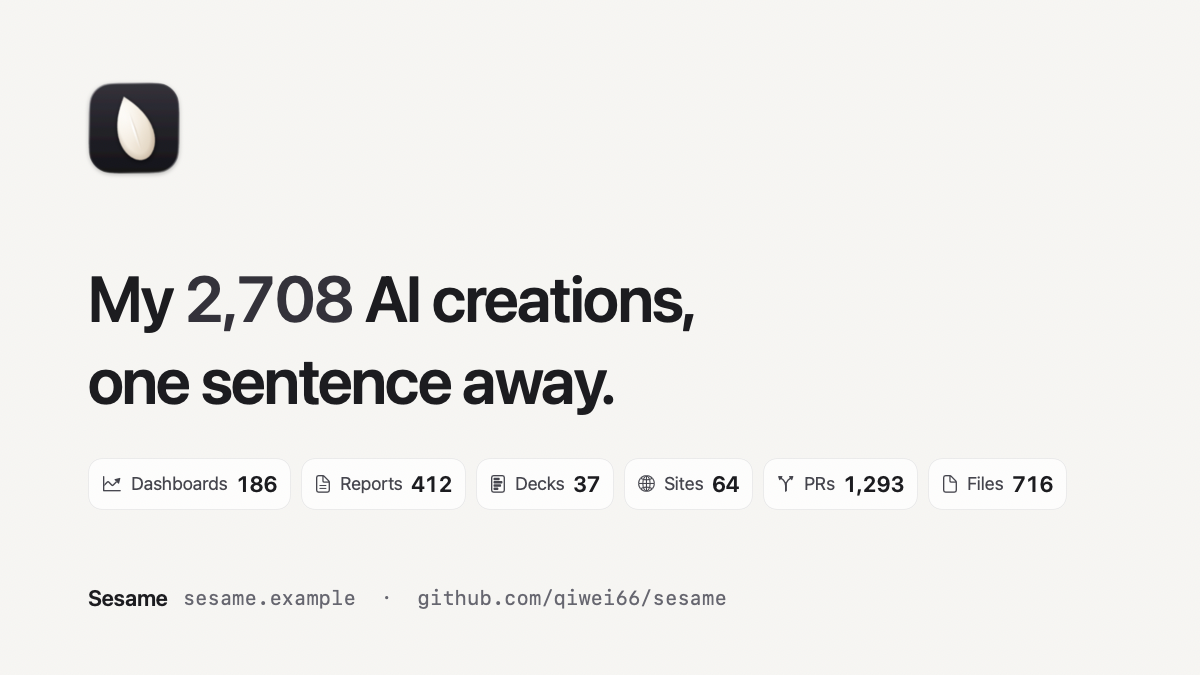
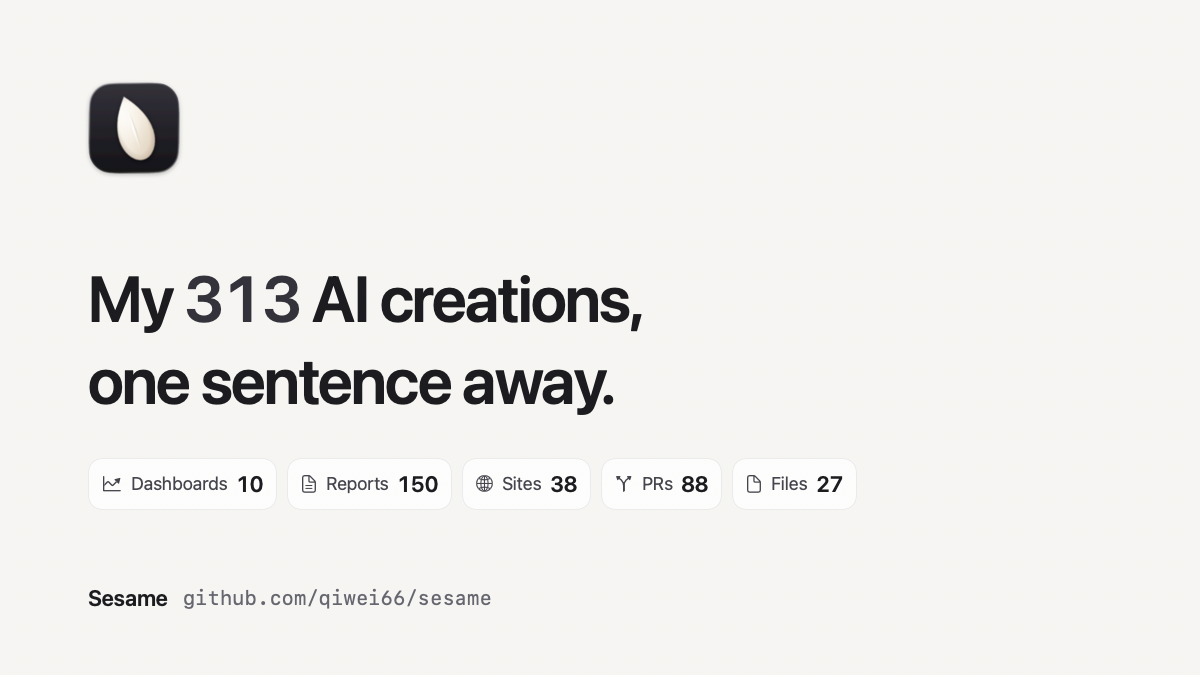
演示样例数字改为 313 (#13)
* docs: demo sample count 2,708 -> 313 (first-run GIFs, README alt text, design copy)

The first-run demo now shows 313 AI creations: reports 150, PRs 88, sites 38,
files 27, dashboards 10 (decks 0, so that group is hidden). Same numbers in
design/prototype.html and DESIGN.md; the eight first-run GIFs are re-recorded
from the prototype with the same pipeline (headless Chrome fake clock, 20 fps,
79 frames, 740 / 1100 px wide).

* share card: 313 sample, drop placeholder site from footer

---------

diff --git a/design/prototype.html b/design/prototype.html
@@ -565,7 +565,7 @@ kbd.down { background: var(--sel); box-shadow: inset 0 1px 1.5px rgba(0,0,0,.18)
     <div class="mi"><svg class="i"><use href="#i-sparkle"/></svg><span class="lbl">Q3 复盘图表</span><span class="r">昨天</span></div>
     <div class="mi"><svg class="i"><use href="#i-file-text"/></svg><span class="lbl">供应商比价表.md</span><span class="r">周一</span></div>
     <div class="sepline"></div>
-    <div class="stat"><svg class="i"><use href="#i-folder-simple"/></svg><span>索引 2,708 条</span><span class="r muted">2 分钟前更新</span></div>
+    <div class="stat"><svg class="i"><use href="#i-folder-simple"/></svg><span>索引 313 条</span><span class="r muted">2 分钟前更新</span></div>
     <div class="sepline"></div>
     <div class="mi"><svg class="i"><use href="#i-gear"/></svg><span class="lbl">设置…</span><span class="short">⌘ ,</span></div>
     <div class="mi"><svg class="i"><use href="#i-power"/></svg><span class="lbl">退出 Sesame</span><span class="short">⌘ Q</span></div>
@@ -588,9 +588,9 @@ kbd.down { background: var(--sel); box-shadow: inset 0 1px 1.5px rgba(0,0,0,.18)
 
   <figure class="sharecard" id="shareCard" aria-label="分享卡预览（导出图 1200×675 的一半大小）">
     <div class="logo" id="shareLogo"></div>
-    <div class="h">我的 <b>2,708</b> 个 AI 产物，<br>动动嘴就调出来。</div>
+    <div class="h">我的 <b>313</b> 个 AI 产物，<br>动动嘴就调出来。</div>
     <div class="g" id="shareGroups"></div>
-    <div class="f"><b>Sesame</b><span class="u">sesame.example  ·  github.com/qiwei66/sesame</span></div>
+    <div class="f"><b>Sesame</b><span class="u">github.com/qiwei66/sesame</span></div>
   </figure>
   <section class="settings" id="settings" aria-label="Sesame 设置">
     <div class="titlebar"><span class="lights"><i></i><i></i><i></i></span><span class="title">通用</span></div>
@@ -634,7 +634,7 @@ kbd.down { background: var(--sel); box-shadow: inset 0 1px 1.5px rgba(0,0,0,.18)
   // share card preview: icon + the non-empty groups (only counts: no titles, paths or names)
   setTimeout(() => {
     document.getElementById('shareLogo').innerHTML = markSvg();
-    document.getElementById('shareGroups').innerHTML = [['chart-line-up', '看板', '186'], ['file-text', '报告', '412'], ['presentation-chart', 'PPT', '37'], ['globe-simple', '网站', '64'], ['git-pull-request', 'PR', '1,293'], ['file', '文件', '716']]
+    document.getElementById('shareGroups').innerHTML = [['chart-line-up', '看板', '10'], ['file-text', '报告', '150'], ['globe-simple', '网站', '38'], ['git-pull-request', 'PR', '88'], ['file', '文件', '27']]
       .map(([i, k, c]) => `<span>${ic(i)}${k}<b>${c}</b></span>`).join('');
   }, 0);
   const liveRow = (fav, icon, title, sub, k, sel = false) =>
@@ -668,15 +668,14 @@ kbd.down { background: var(--sel); box-shadow: inset 0 1px 1.5px rgba(0,0,0,.18)
     4: { q: '', ph: ph(BACKUP), key: BACKUP, intro: true, body: `
       <div class="intro">
         <div class="headline">动动嘴，就调出来。</div>
-        <div class="count"><span class="n" data-count="2708">2,708</span> 个 AI 产物，一句话的事。</div>
+        <div class="count"><span class="n" data-count="313">313</span> 个 AI 产物，一句话的事。</div>
         <div class="srcrow"><span class="src">来自你和 Claude Code、Codex 的全部对话</span><button class="share" id="shareBtn">${ic('arrow-up')}<span>分享</span></button></div>
         <div class="cats">
-          <div class="cat">${ic('chart-line-up')}<span class="k">看板</span><span class="c" data-count="186">186</span></div>
-          <div class="cat">${ic('file-text')}<span class="k">报告</span><span class="c" data-count="412">412</span></div>
-          <div class="cat">${ic('presentation-chart')}<span class="k">PPT</span><span class="c" data-count="37">37</span></div>
-          <div class="cat">${ic('globe-simple')}<span class="k">网站</span><span class="c" data-count="64">64</span></div>
-          <div class="cat">${ic('git-pull-request')}<span class="k">PR</span><span class="c" data-count="1293">1,293</span></div>
-          <div class="cat">${ic('file')}<span class="k">文件</span><span class="c" data-count="716">716</span></div>
+          <div class="cat">${ic('chart-line-up')}<span class="k">看板</span><span class="c" data-count="10">10</span></div>
+          <div class="cat">${ic('file-text')}<span class="k">报告</span><span class="c" data-count="150">150</span></div>
+          <div class="cat">${ic('globe-simple')}<span class="k">网站</span><span class="c" data-count="38">38</span></div>
+          <div class="cat">${ic('git-pull-request')}<span class="k">PR</span><span class="c" data-count="88">88</span></div>
+          <div class="cat">${ic('file')}<span class="k">文件</span><span class="c" data-count="27">27</span></div>
         </div>
         <div class="try"><span class="lbl">试试</span><span class="t">打开上周那个交易大盘</span><kbd>${ic('arrow-elbow-down-left')}</kbd></div>
       </div>` },
@@ -760,7 +759,7 @@ kbd.down { background: var(--sel); box-shadow: inset 0 1px 1.5px rgba(0,0,0,.18)
       <div class="miss">
         <div class="msg">没找到“汇率换算表”</div>
         <dl class="steps">
-          <dt>已经做了</dt><dd>搜过 <b>2,708 条</b>记录、Chrome 最近 7 天历史和桌面文件，没有标题或内容对得上的。</dd>
+          <dt>已经做了</dt><dd>搜过 <b>313 条</b>记录、Chrome 最近 7 天历史和桌面文件，没有标题或内容对得上的。</dd>
           <dt>需要你</dt><dd class="ask">说一个页面里出现过的词，比如币种或金额；或者告诉我是在哪个项目里做的。</dd>
         </dl>
       </div>` },

diff --git a/macos/Sources/Sesame/Demo.swift b/macos/Sources/Sesame/Demo.swift
@@ -22,8 +22,8 @@ struct DemoOptions {
 
 @MainActor
 enum Demo {
-    /// the prototype's sample counts (design/prototype.html state 4)
-    static let demoGroups: [IntroGroupKind: Int] = [.dashboard: 186, .report: 412, .deck: 37, .site: 64, .pr: 1293, .file: 716]
+    /// the prototype's sample counts (design/prototype.html state 4): 313 in all; decks 0, so that group is hidden
+    static let demoGroups: [IntroGroupKind: Int] = [.dashboard: 10, .report: 150, .deck: 0, .site: 38, .pr: 88, .file: 27]
 
     static func phase(_ s: String) -> (String, PanelPhase)? {
         let zhQ = "打开上周让 Claude 做的那个交易大盘"
@@ -51,7 +51,7 @@ enum Demo {
         case "4", "4s", "h":
             let sample = Candidate(id: "demo", title: "上周那个交易大盘", address: "localhost:7341", url: nil, kind: .local)
             // 4s = right after Share: the button says the card was saved and copied
-            return ("", .intro(IntroCard(total: 2708, groups: demoGroups, sample: sample, hotKeyTaken: s == "h", shared: s == "4s")))
+            return ("", .intro(IntroCard(total: 313, groups: demoGroups, sample: sample, hotKeyTaken: s == "h", shared: s == "4s")))
         case "t1": return ("大", .live(LiveList(items: [
             Candidate(id: "a", title: "交易大盘", address: "localhost:7341", url: nil, kind: .local),
             Candidate(id: "b", title: "年度大事记", address: "claude.ai/artifact/2b91…c04", url: nil, kind: .artifact),
@@ -78,7 +78,7 @@ enum Demo {
         if let i = CommandLine.arguments.firstIndex(of: "--share-out"), i + 1 < CommandLine.arguments.count {
             let dark = CommandLine.arguments.contains("--dark")
             let url = URL(fileURLWithPath: CommandLine.arguments[i + 1])
-            if let d = ShareCardView.png(total: 2708, groups: demoGroups, dark: dark), (try? d.write(to: url)) != nil {
+            if let d = ShareCardView.png(total: 313, groups: demoGroups, dark: dark), (try? d.write(to: url)) != nil {
                 print("[demo] share card -> \(url.path) bytes=\(d.count)")
             } else { print("[demo] share card FAILED") }
             fflush(stdout)

diff --git a/macos/Sources/SesameCore/PanelModel.swift b/macos/Sources/SesameCore/PanelModel.swift
@@ -159,11 +159,10 @@ public enum PanelPhase: Equatable, Sendable {
 }
 
 /// The "share my number" card (1200 × 675, the size X / Twitter shows uncropped). Only counts go on it: no titles,
-/// paths or names. The addresses are placeholders until the project has its real site and repository.
+/// paths or names. The footer points to the repository, the only public address.
 public enum ShareCard {
     public static let width = 1200
     public static let height = 675
-    public static let site = "sesame.example"
     public static let repo = "github.com/qiwei66/sesame"
 
     /// Groups printed on the card: the first-run groups that are not empty, in the panel's order

diff --git a/macos/Sources/Sesame/ShareCardView.swift b/macos/Sources/Sesame/ShareCardView.swift
@@ -47,7 +47,7 @@ struct ShareCardView: View {
             Spacer(minLength: 0)
             HStack(spacing: 14) {
                 Text("Sesame").font(.system(size: 22, weight: .semibold)).foregroundColor(ink)
-                Text("\(ShareCard.site)  ·  \(ShareCard.repo)").font(.system(size: 20, design: .monospaced)).foregroundColor(ink3)
+                Text(ShareCard.repo).font(.system(size: 20, design: .monospaced)).foregroundColor(ink3)
             }
         }
         .padding(EdgeInsets(top: 72, leading: 88, bottom: 64, trailing: 88))

diff --git a/README_zh.md b/README_zh.md
@@ -18,7 +18,7 @@
 <p align="center">
   <picture>
     <source media="(prefers-color-scheme: dark)" srcset="docs/assets/hero-firstrun-zh-dark.gif">
-    <img src="docs/assets/hero-firstrun-zh-light.gif" width="960" alt="第一次打开 Sesame：「动动嘴，就调出来。」下面是 2,708 个 AI 产物的计数从 0 滚上去，分成看板、报告、PPT、网站、PR 和文件">
+    <img src="docs/assets/hero-firstrun-zh-light.gif" width="960" alt="第一次打开 Sesame：「动动嘴，就调出来。」下面是 313 个 AI 产物的计数从 0 滚上去，分成看板、报告、网站、PR 和文件">
   </picture>
 </p>
 
@@ -68,7 +68,7 @@ Sesame 在本机把 AI 交付过的产物收成一个库，打几个字或说一
     <td width="64%">
       <picture>
         <source media="(prefers-color-scheme: dark)" srcset="docs/assets/firstrun-zh-dark.gif">
-        <img src="docs/assets/firstrun-zh-light.gif" width="560" alt="首次打开：「动动嘴，就调出来。」2,708 个 AI 产物的计数滚上去，分成看板、报告、PPT、网站、PR 和文件">
+        <img src="docs/assets/firstrun-zh-light.gif" width="560" alt="首次打开：「动动嘴，就调出来。」313 个 AI 产物的计数滚上去，分成看板、报告、网站、PR 和文件">
       </picture>
     </td>
   </tr>
@@ -98,7 +98,7 @@ Sesame 在本机把 AI 交付过的产物收成一个库，打几个字或说一
     <td width="64%">
       <picture>
         <source media="(prefers-color-scheme: dark)" srcset="docs/assets/share-zh-dark.png">
-        <img src="docs/assets/share-zh-light.png" width="560" alt="分享卡：「我的 2,708 个 AI 产物，动动嘴就调出来。」下面是按类型的计数">
+        <img src="docs/assets/share-zh-light.png" width="560" alt="分享卡：「我的 313 个 AI 产物，动动嘴就调出来。」下面是按类型的计数">
       </picture>
     </td>
   </tr>

diff --git a/README.md b/README.md
@@ -18,7 +18,7 @@
 <p align="center">
   <picture>
     <source media="(prefers-color-scheme: dark)" srcset="docs/assets/hero-firstrun-en-dark.gif">
-    <img src="docs/assets/hero-firstrun-en-light.gif" width="960" alt="Sesame's first run: 'Just say it. It's there.' with a count of 2,708 AI creations rolling up from zero, split into dashboards, reports, decks, sites, PRs and files">
+    <img src="docs/assets/hero-firstrun-en-light.gif" width="960" alt="Sesame's first run: 'Just say it. It's there.' with a count of 313 AI creations rolling up from zero, split into dashboards, reports, sites, PRs and files">
   </picture>
 </p>
 
@@ -68,7 +68,7 @@ Sesame keeps a local library of every artifact your AI delivered, so a few words
     <td width="64%">
       <picture>
         <source media="(prefers-color-scheme: dark)" srcset="docs/assets/firstrun-en-dark.gif">
-        <img src="docs/assets/firstrun-en-light.gif" width="560" alt="First run: 'Just say it. It's there.' and 2,708 AI creations counted up, split into dashboards, reports, decks, sites, PRs and files">
+        <img src="docs/assets/firstrun-en-light.gif" width="560" alt="First run: 'Just say it. It's there.' and 313 AI creations counted up, split into dashboards, reports, sites, PRs and files">
       </picture>
     </td>
   </tr>
@@ -98,7 +98,7 @@ Sesame keeps a local library of every artifact your AI delivered, so a few words
     <td width="64%">
       <picture>
         <source media="(prefers-color-scheme: dark)" srcset="docs/assets/share-en-dark.png">
-        <img src="docs/assets/share-en-light.png" width="560" alt="Share card: 'My 2,708 AI creations, one sentence away.' with counts by type">
+        <img src="docs/assets/share-en-light.png" width="560" alt="Share card: 'My 313 AI creations, one sentence away.' with counts by type">
       </picture>
     </td>
   </tr>

diff --git a/macos/README.md b/macos/README.md
@@ -64,7 +64,7 @@ Prints `[demo] state=… window=<id>`; capture just that window with `screencapt
 States: 1 listening · 2 intent preview · 3 success · 5 info card · 6 candidates · 7 confirm · 8 English · 9 menu ·
 0 not found · 4 first run · h first run + hot key taken · t1 / t2 / t3 typing (4 rows / 1 row / nothing matched) ·
 v hold to talk · m microphone notice · s Settings (open at login). The first-run counts are the prototype's sample
-numbers (2,708 …), not the real index.
+numbers (313 in all …), not the real index.
 
 Demo mode starts no core process and registers no hot key.
 
